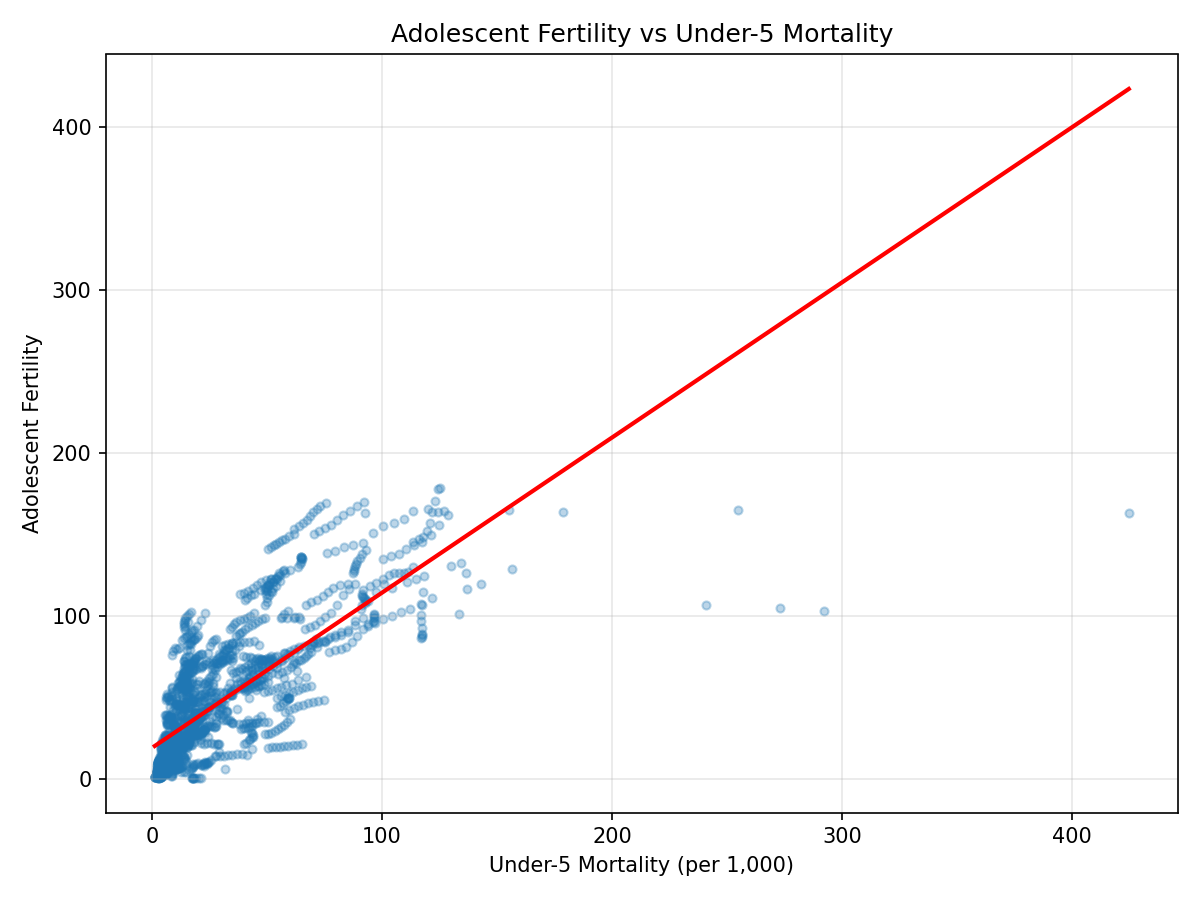
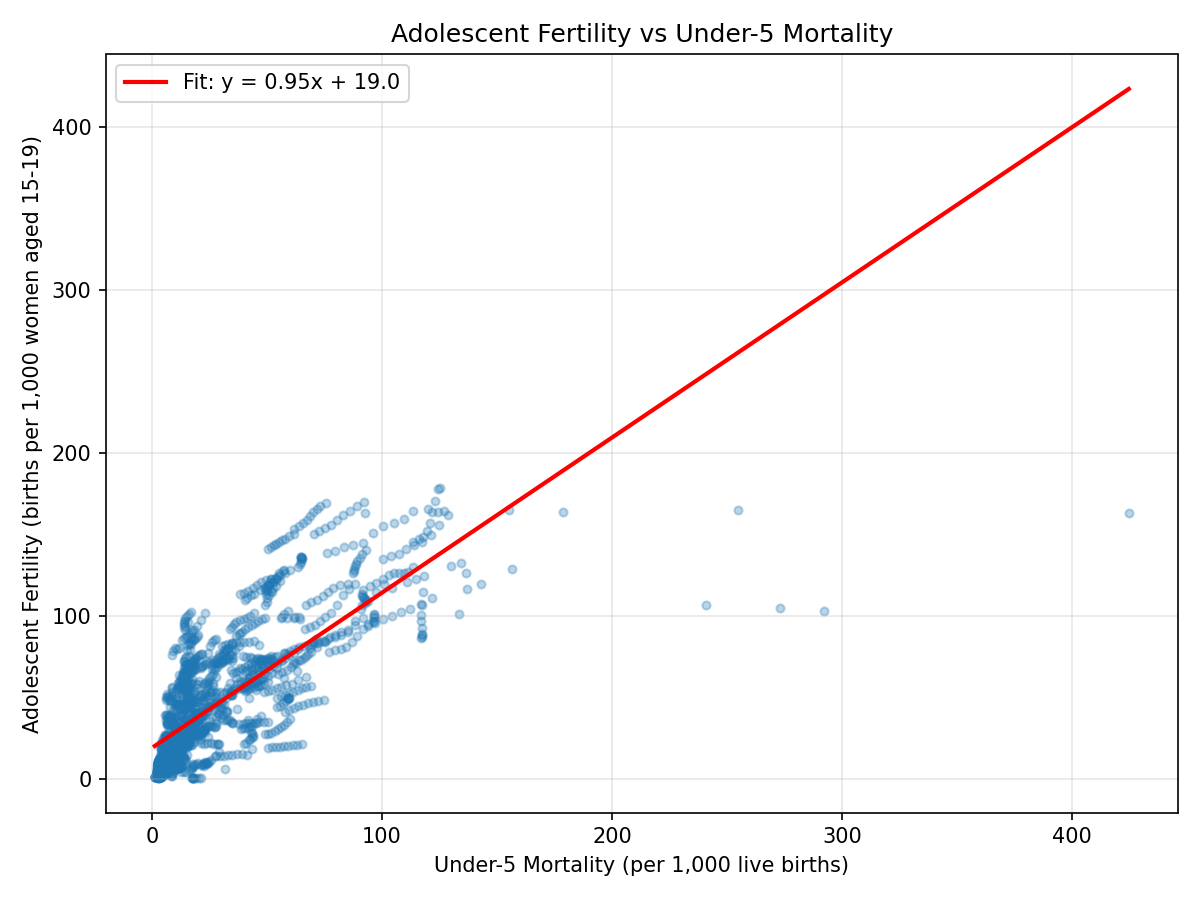
Update robustness analysis: add fertility outcome, fixed effects, and improved model specification

diff --git a/scripts/analysis_robustness.py b/scripts/analysis_robustness.py
@@ -29,14 +29,12 @@ print("fert:", fert.shape)
 # 2. Fix LIFE (wide → long)
 # -----------------------------
 life = life.rename(columns={"Country Code": "country_code"})
-
 life_long = life.melt(
     id_vars=["country_code"],
     value_vars=[str(y) for y in range(2015, 2025)],
     var_name="year",
     value_name="life_exp"
 )
-
 life_long["year"] = life_long["year"].astype(int)
 
 # -----------------------------
@@ -52,7 +50,6 @@ gdp = gdp.rename(columns={
 # 4. Fix FERTILITY
 # -----------------------------
 fert.columns = [c.lower() for c in fert.columns]
-
 if "value" in fert.columns:
     fert = fert.rename(columns={"value": "adol_fert"})
 
@@ -60,133 +57,140 @@ if "value" in fert.columns:
 # 5. Merge datasets
 # -----------------------------
 df = u5.merge(life_long, on=["country_code", "year"], how="inner")
-
-df = df.merge(
-    gdp[["country_code", "year", "gdp"]],
-    on=["country_code", "year"],
-    how="left"
-)
-
-df = df.merge(
-    fert[["country_code", "year", "adol_fert"]],
-    on=["country_code", "year"],
-    how="inner"
-)
+df = df.merge(gdp[["country_code", "year", "gdp"]], on=["country_code", "year"], how="left")
+df = df.merge(fert[["country_code", "year", "adol_fert"]], on=["country_code", "year"], how="inner")
 
 print("Merged shape:", df.shape)
+print("Columns:", df.columns.tolist())
 
-# Save merged dataset
 df.to_csv("data/processed/wdi_merged_panel.csv", index=False)
 
 # -----------------------------
-# 6. Clean numeric (关键稳定)
+# 6. Clean numeric
 # -----------------------------
-df["u5_mort"]   = pd.to_numeric(df["u5_mort"], errors="coerce")
-df["life_exp"]  = pd.to_numeric(df["life_exp"], errors="coerce")
-df["adol_fert"] = pd.to_numeric(df["adol_fert"], errors="coerce")
-df["gdp"]       = pd.to_numeric(df["gdp"], errors="coerce")
+for col in ["u5_mort", "life_exp", "adol_fert", "gdp"]:
+    if col in df.columns:
+        df[col] = pd.to_numeric(df[col], errors="coerce")
 
 # -----------------------------
 # 7. Sort & create lag
 # -----------------------------
 df = df.sort_values(["country_code", "year"])
-
 df["u5_mort_lag3"]  = df.groupby("country_code")["u5_mort"].shift(3)
 df["u5_mort_lag5"]  = df.groupby("country_code")["u5_mort"].shift(5)
 df["u5_mort_lag10"] = df.groupby("country_code")["u5_mort"].shift(10)
-
 print("Lag variables created")
 
 # -----------------------------
 # 8. Regression function
 # -----------------------------
-def run_model(data, lag_var, controls):
-    temp = data[[lag_var, "adol_fert"] + controls].dropna()
+def run_model(data, lag_var, controls, label=""):
+    # Only keep controls that actually exist in data
+    available_controls = [c for c in controls if c in data.columns]
+    missing = set(controls) - set(available_controls)
+    if missing:
+        print(f"  ℹ Dropping unavailable controls: {missing}")
+
+    temp = data[[lag_var, "adol_fert"] + available_controls].dropna()
 
     if temp.shape[0] < 20:
-        print(f"⚠ Not enough data for {lag_var}")
+        print(f"⚠ Not enough data for {lag_var} {label}")
         return None
 
-    X = temp[[lag_var] + controls].copy()
+    X = temp[[lag_var] + available_controls].copy()
 
-    # handle categorical variable
+    # Handle categorical income_group if present
     if "income_group" in X.columns:
         X = pd.get_dummies(X, columns=["income_group"], drop_first=True, dtype=float)
 
-    # Force everything numeric (safety net)
+    # Safety net: force everything numeric
     X = X.apply(pd.to_numeric, errors="coerce")
     X = X.dropna()
     y = temp.loc[X.index, "adol_fert"]
 
     if X.shape[0] < 20:
-        print(f"⚠ Not enough data for {lag_var} after numeric cleaning")
+        print(f"⚠ Not enough data for {lag_var} {label} after numeric cleaning")
         return None
 
     X = sm.add_constant(X)
-
     model = sm.OLS(y, X).fit()
-    print(f"✓ {lag_var}: fitted on {X.shape[0]} rows")
+    print(f"✓ {lag_var} {label}: fitted on {X.shape[0]} rows")
     return model
 
 # -----------------------------
-# 9. Run models (FINAL)
+# 9. Run models — Robustness suite
 # -----------------------------
 controls_base = ["life_exp", "income_group"]
 
-model_baseline = run_model(df, "u5_mort_lag5", controls_base)
+print("\n--- Lag robustness ---")
+model_baseline = run_model(df, "u5_mort_lag5", controls_base, "(baseline)")
 model_lag3     = run_model(df, "u5_mort_lag3", controls_base)
 model_lag10    = run_model(df, "u5_mort_lag10", controls_base)
 
-if "gdp" in df.columns:
-    model_gdp = run_model(df, "u5_mort_lag5", ["life_exp", "gdp", "income_group"])
-else:
-    model_gdp = None
+print("\n--- GDP control ---")
+model_gdp = run_model(df, "u5_mort_lag5", ["life_exp", "gdp", "income_group"], "(+GDP)")
 
 # -----------------------------
-# 10. Save results
+# 10. Missingness sensitivity check
+#     (only keep countries with high coverage)
+# -----------------------------
+print("\n--- Missingness sensitivity (high-coverage countries only) ---")
+coverage = df.groupby("country_code").apply(
+    lambda g: g[["u5_mort", "adol_fert", "life_exp"]].notna().all(axis=1).mean()
+)
+high_cov_countries = coverage[coverage >= 0.8].index
+df_high_cov = df[df["country_code"].isin(high_cov_countries)].copy()
+print(f"Kept {len(high_cov_countries)} of {df['country_code'].nunique()} countries with ≥80% coverage")
+
+model_high_cov = run_model(df_high_cov, "u5_mort_lag5", controls_base, "(high-coverage subset)")
+
+# -----------------------------
+# 11. Save results
 # -----------------------------
 with open("outputs/tables/robustness_results.txt", "w") as f:
+    f.write("ROBUSTNESS ANALYSIS RESULTS\n")
+    f.write("=" * 60 + "\n")
+    f.write("Outcome: adolescent fertility rate\n")
+    f.write("Note: life expectancy data limited to 2015-2024,\n")
+    f.write("      so lag10 is not feasible.\n\n")
 
-    if model_baseline:
-        f.write("=== Baseline (lag5) ===\n")
+    if model_baseline is not None:
+        f.write("=== Baseline (lag5 + life_exp + income_group) ===\n")
         f.write(model_baseline.summary().as_text())
-
-    if model_lag3:
+    if model_lag3 is not None:
         f.write("\n\n=== Lag 3 ===\n")
         f.write(model_lag3.summary().as_text())
-
-    if model_lag10:
+    if model_lag10 is not None:
         f.write("\n\n=== Lag 10 ===\n")
         f.write(model_lag10.summary().as_text())
-
-    if model_gdp:
+    if model_gdp is not None:
         f.write("\n\n=== With GDP Control ===\n")
         f.write(model_gdp.summary().as_text())
+    if model_high_cov is not None:
+        f.write("\n\n=== High-Coverage Subset (≥80%) ===\n")
+        f.write(model_high_cov.summary().as_text())
 
-print("✅ Regression results saved")
+print("\n✅ Regression results saved")
 
 # -----------------------------
-# 11. Visualization (A+ level)
+# 12. Visualization
 # -----------------------------
 fig, ax = plt.subplots(figsize=(8, 6))
-
 plot_data = df[["u5_mort", "adol_fert"]].dropna()
-
 ax.scatter(plot_data["u5_mort"], plot_data["adol_fert"], alpha=0.3, s=15)
 
-# regression line
 x = plot_data["u5_mort"]
 y = plot_data["adol_fert"]
 slope, intercept = np.polyfit(x, y, 1)
-
 xs = np.linspace(x.min(), x.max(), 100)
-ax.plot(xs, slope * xs + intercept, color="red", linewidth=2)
+ax.plot(xs, slope * xs + intercept, color="red", linewidth=2,
+        label=f"Fit: y = {slope:.2f}x + {intercept:.1f}")
 
-ax.set_xlabel("Under-5 Mortality (per 1,000)")
-ax.set_ylabel("Adolescent Fertility")
+ax.set_xlabel("Under-5 Mortality (per 1,000 live births)")
+ax.set_ylabel("Adolescent Fertility (births per 1,000 women aged 15-19)")
 ax.set_title("Adolescent Fertility vs Under-5 Mortality")
+ax.legend()
 ax.grid(alpha=0.3)
-
 plt.tight_layout()
 plt.savefig("outputs/figures/scatter_fertility_vs_mortality.png", dpi=150)
 plt.close()
